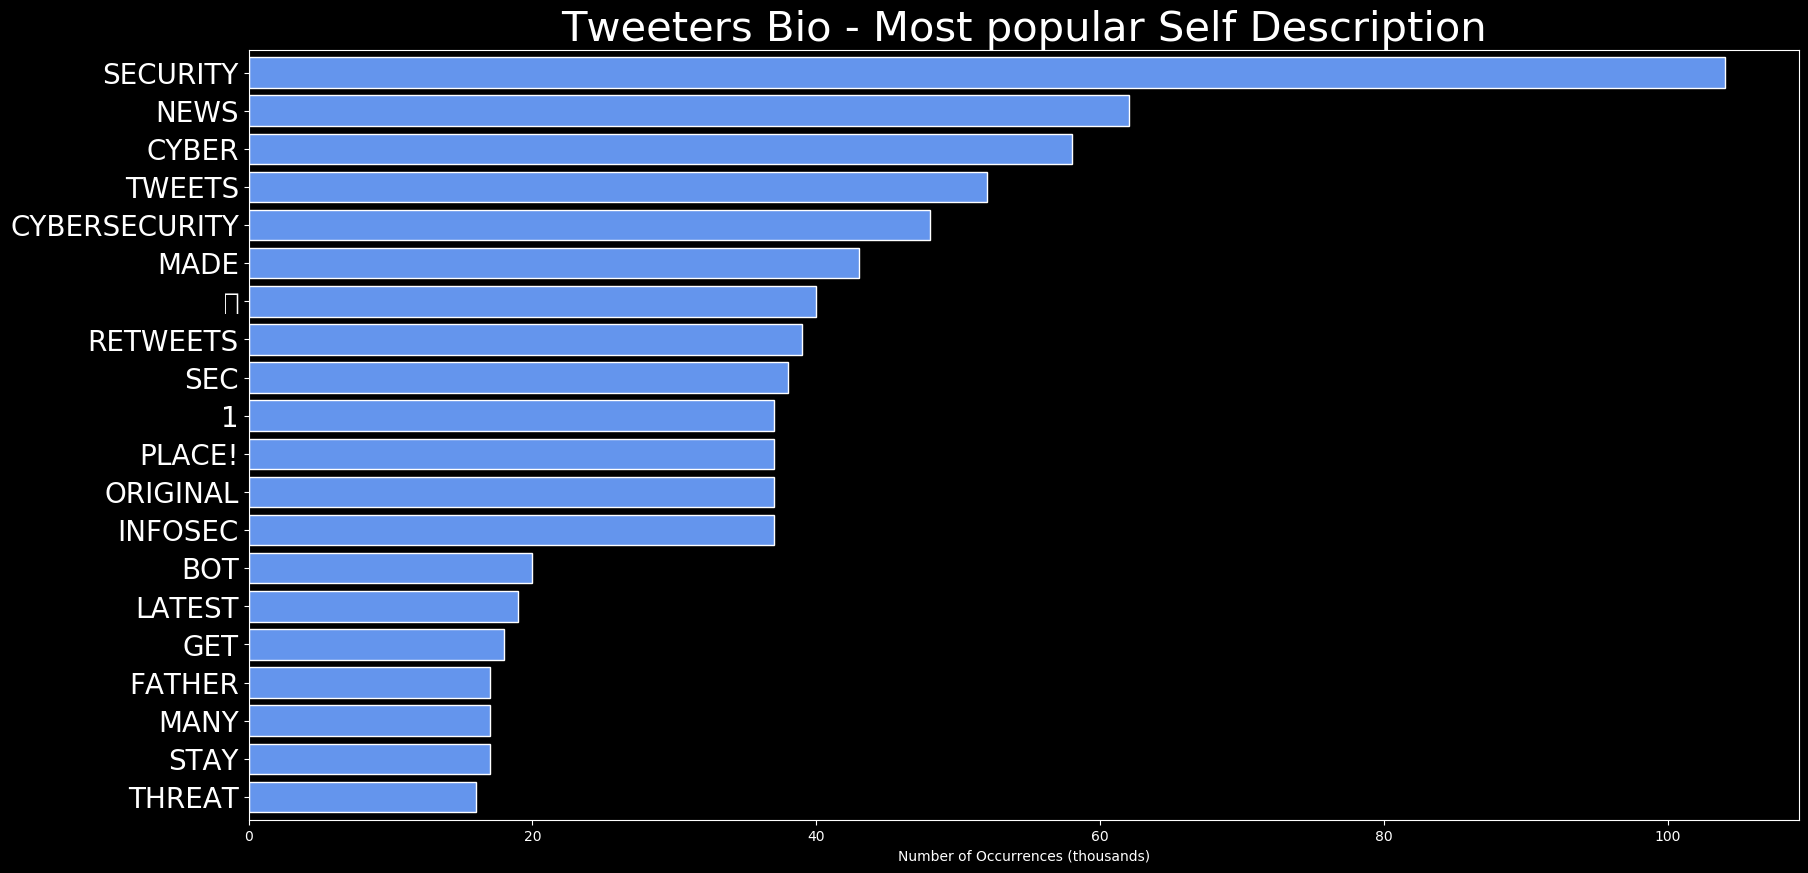
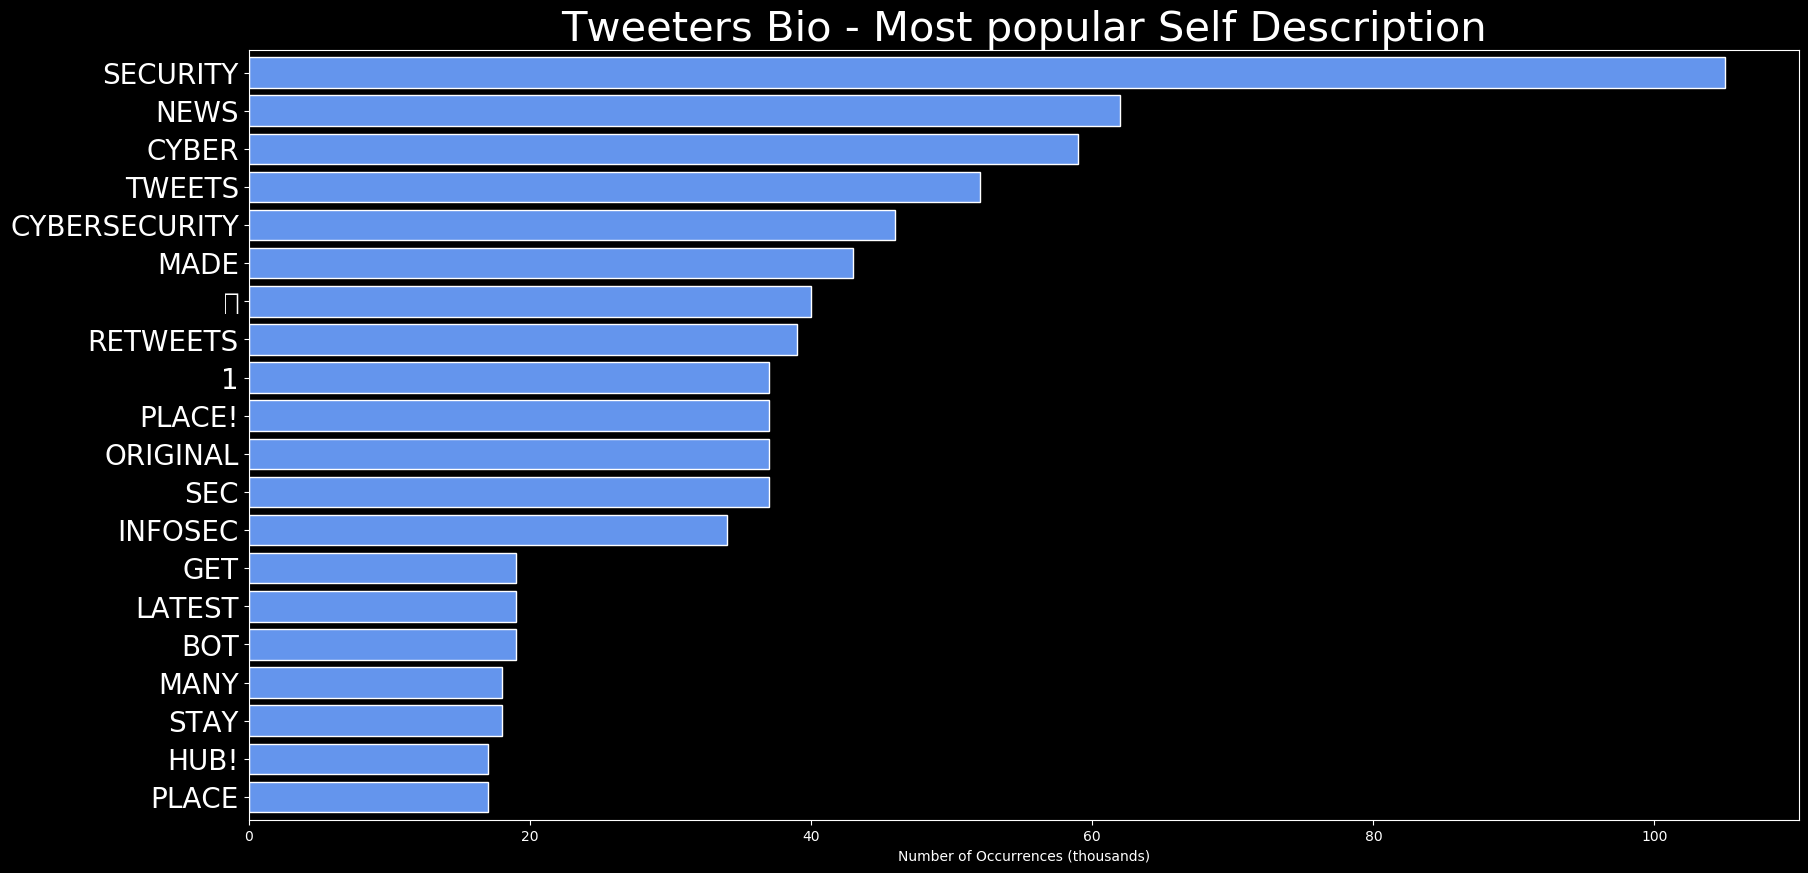
Next increment

diff --git a/README.md b/README.md
@@ -6,7 +6,7 @@
 
 |  Trending  |   Images | 
 :-------------------------:|:-------------------------:
-|  ![image](http://pbs.twimg.com/media/EbeSiKrXYAE9LFt.jpg)     <img width=200/> | ![image](http://pbs.twimg.com/media/EbeL7VKXgAEwa0I.jpg) <img width=200/> |   
+|  ![image](http://pbs.twimg.com/media/EbeSiKrXYAE9LFt.jpg)     <img width=200/> | ![image](https://securityintelligence.com/wp-content/uploads/2019/01/government-cybersecurity-processes-must-change-drastically.jpg) <img width=200/> |   
  
  
 ![image](TWEETS.png)
@@ -30,16 +30,16 @@ The most popular user is: **CiscoIoT**
 
 |                **Sample-Tweets**        |
 | :-------------: |
-| RT @LarryBiss: In a world where cloud adoption enhanced the #NewNormal, Atos is helping organizations to thwart new #cybersecurity threats.… |
-| RT @Totocellux: #ThreatAnalysis: #WebSites #Skimmer Hides Within #EXIF #Metadata, Exfiltrates #CreditCards Via #ImageFiles - https://t.co/4… |
-| RT @IXIAcom: Join @Keysight at the @FutureCon2019 Virtual Central #CyberSecurity Conference. Andrew Young talks live: “Attack Yourself Befo… |
+| RT @ExploitedSystem: Hey Guys Just Uploaded a Video on #GoBuster It would be appreciated if you guys check it out ! https://t.co/BQPuWXe4MZ… |
+| RT @BinSecSweeper: Malicious app impersonating Facebook analyzed in detail by The File Threat Intelligence Platform: IoC, similarities, ATT… |
+| RT @Techfest_IITB: Presenting Online Live Training Programs on #AndroidDevelopment and Cybersecurity by #Techfest, #IITBombay!Learn to cre… |
 
 ## RELATED METRICS<br>
 | Metric | Value |
 | ------------- | ------------- |
 | #1 Most tweeted to  | **TheHackersNews** |
 | #2 Most tweeted to  | **Paula_Piccard** |
-| #3 Most tweeted to  | **CiscoIoT** |
+| #3 Most tweeted to  | **Djax_Alpha** |
 | NewProfiles (less than 10 days) | 0.33%  |
 | Tweeters with < 10 followers  | 2.33%|
 | Tweeters with > 1000000 followers  | 0.0%  |
@@ -53,20 +53,20 @@ The most popular user is: **CiscoIoT**
 | ------------- | ------------- |
 | first  | **INDUSTRIAL**  |
 | second  | **LOOKING**  |
-| third  | **HACKER** |
+| third  | **INFOSEC** |
 | fourth  | **GUYS**  |
-| fifth  | **MALWARE**  |
+| fifth  | **HACKER**  |
 
 
 ## Twitter Bio Analysis![image](BIO.png)
 ### SENTIMENT ANALYSIS
 ![image](sentiment.png)
-VIEWS WERE : **SUBJECTIVE**  (33.33%) & **NEGATIVELY-SUBJECTIVE** (6.67%) **OBJECTIVE** (60.0%)
+VIEWS WERE : **SUBJECTIVE**  (40.0%) & **NEGATIVELY-SUBJECTIVE** (13.33%) **OBJECTIVE** (46.67%)
 
 ### TWEET SAMPLE 
 | Random value picked from array |
 | ------------- |
-|RT @CiscoIoT: Security teams need visibility into their industrial assets &amp; industrial processes. So what is the missing puzzle piece that… |
+|Hey Guys Just Uploaded a Video on #GoBuster It would be appreciated if you guys check it out !… https://t.co/zj8Gg4z8oc |
 
 ### MOST RETWEETED 
 
